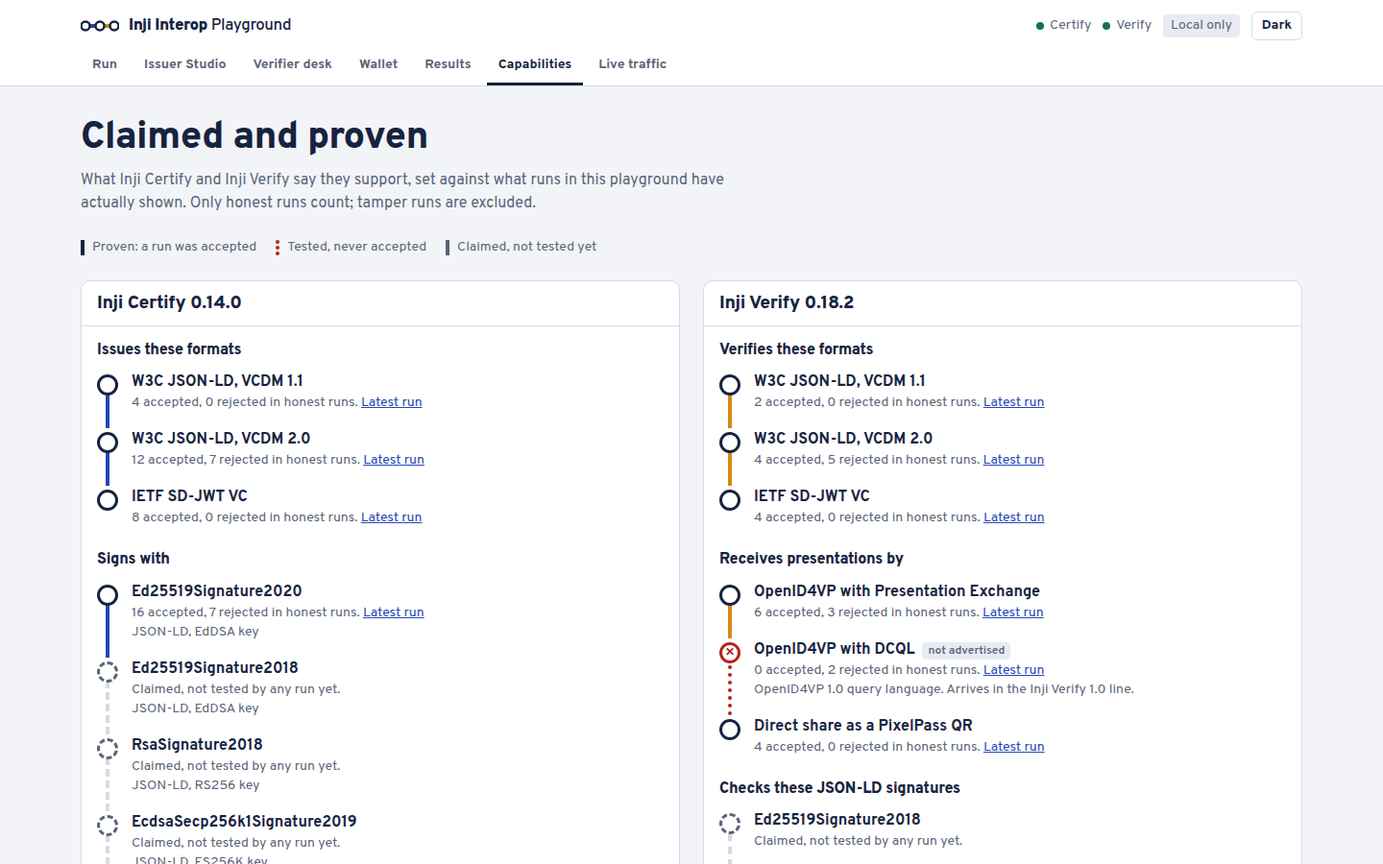
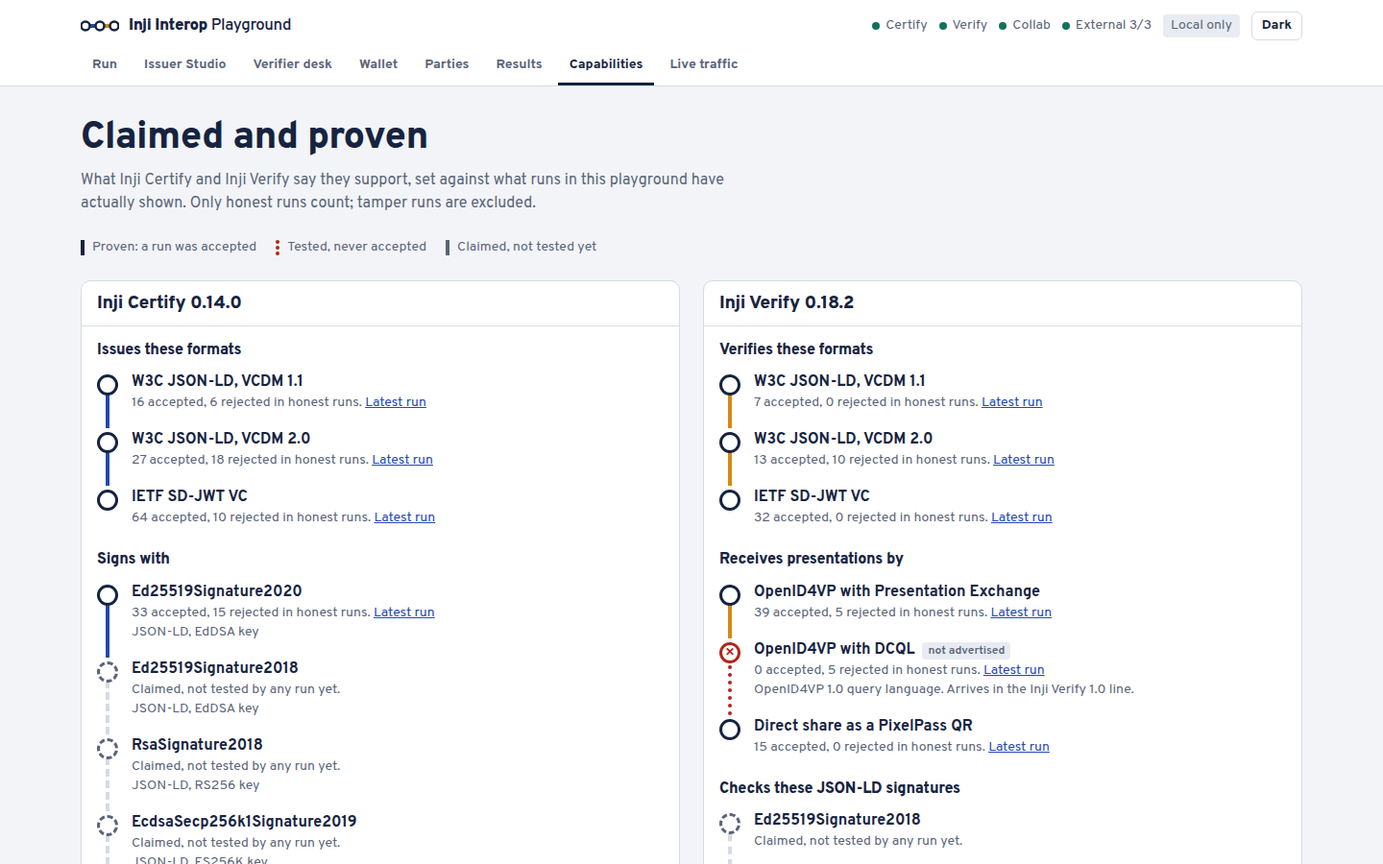
Rerun the matrix with Collab: 71 journeys

diff --git a/docs/interop-report.md b/docs/interop-report.md
@@ -1,60 +1,83 @@
 # Interop report
 
-Generated 2026-10-12T17:34:44.560Z by `apps/bff/scripts/matrix.ts` against http://127.0.0.1:8080.
-Stack: Inji Certify 0.14.0, Inji Verify 0.18.2, the playground's Reference Wallet and Reference Verifier, and the external parties in infra/parties.yaml (walt.id issuer-api, verifier-api and wallet-api 1.0.0).
+Generated 2026-10-23T14:42:47.267Z by `apps/bff/scripts/matrix.ts` against http://127.0.0.1:8080.
+Stack: Inji Certify 0.14.0, Inji Verify 0.18.2, the playground's Reference Wallet and Reference Verifier, the external parties in infra/parties.yaml (walt.id issuer-api, verifier-api and wallet-api 1.0.0), and MOSIP Collab (Inji 1.0.0-alpha.1: its Certify issuers, eSignet and Inji Verify 1.0, reached over the internet).
 
 **Verdict** means *the journey behaved as expected*: honest presentations are accepted; tampered or expired ones are rejected.
 Rows marked with a gap id are known upstream problems described in [gaps.md](gaps.md).
 
 | # | Credential | Issuer | Format | Wallet | Verifier | Query | Mode | Tamper | Expected | Verifier outcome | Status / error | Verdict | Run |
 |---|---|---|---|---|---|---|---|---|---|---|---|---|---|
-| M1 | Karnataka Farmer Card | Karnataka Agriculture Department | ldp_vc (DM 2.0) | Reference Wallet | Inji Verify 0.18.2 | PE | OpenID4VP | none | accept | ACCEPTED | SUCCESS | ✅ | `run-q326qa` |
-| M2 | Bachelor's Degree | University of Veridonia | ldp_vc (DM 1.1) | Reference Wallet | Inji Verify 0.18.2 | PE | OpenID4VP | none | accept | ACCEPTED | SUCCESS | ✅ | `run-eswnqq` |
-| M3 | Karnataka Farmer Card (SD-JWT) | Karnataka Agriculture Department | vc+sd-jwt | Reference Wallet | Inji Verify 0.18.2 | PE | OpenID4VP | none | accept | ACCEPTED | SUCCESS | ✅ | `run-7e7nnw` |
-| M4 | Karnataka Farmer Card | Karnataka Agriculture Department | ldp_vc (DM 2.0) | Reference Wallet | Inji Verify 0.18.2 | — | direct share | none | accept | ACCEPTED | SUCCESS | ✅ | `run-qjrazq` |
-| M5 | Karnataka Farmer Card (SD-JWT) | Karnataka Agriculture Department | vc+sd-jwt | Reference Wallet | Inji Verify 0.18.2 | — | direct share | none | accept | ACCEPTED | SUCCESS | ✅ | `run-zsmxlg` |
-| M6 | Karnataka Farmer Card | Karnataka Agriculture Department | ldp_vc (DM 2.0) | Reference Wallet | Reference Verifier | PE | OpenID4VP | none | accept | ACCEPTED | SUCCESS | ✅ | `run-yvjccw` |
-| M7 | Karnataka Farmer Card | Karnataka Agriculture Department | ldp_vc (DM 2.0) | Reference Wallet | Reference Verifier | DCQL | OpenID4VP | none | accept | ACCEPTED | SUCCESS | ✅ | `run-osjgoq` |
-| M8 | Karnataka Farmer Card (SD-JWT) | Karnataka Agriculture Department | vc+sd-jwt | Reference Wallet | Reference Verifier | PE | OpenID4VP | none | accept | ACCEPTED | SUCCESS | ✅ | `run-lvskyq` |
-| M9 | Karnataka Farmer Card (SD-JWT) | Karnataka Agriculture Department | vc+sd-jwt | Reference Wallet | Reference Verifier | DCQL | OpenID4VP | none | accept | ACCEPTED | SUCCESS | ✅ | `run-qio4wg` |
-| M10 | Bachelor's Degree | University of Veridonia | ldp_vc (DM 1.1) | Reference Wallet | Reference Verifier | PE | OpenID4VP | none | accept | ACCEPTED | SUCCESS | ✅ | `run-nbtxpw` |
-| M11 | Karnataka Farmer Card | Karnataka Agriculture Department | ldp_vc (DM 2.0) | Reference Wallet | Inji Verify 0.18.2 | DCQL | OpenID4VP | none | reject | REJECTED | QUERY_LANGUAGE_UNSUPPORTED | ✅ | `run-qnzb6q` |
-| M12 | Library Pass (expired) | University of Veridonia | ldp_vc (DM 2.0) | Reference Wallet | Inji Verify 0.18.2 | PE | OpenID4VP | none | reject | REJECTED | EXPIRED | ✅ | `run-uwsqaa` |
-| M13 | Library Pass (expired) | University of Veridonia | ldp_vc (DM 2.0) | Reference Wallet | Reference Verifier | PE | OpenID4VP | none | reject | REJECTED | Not expired | ✅ | `run-vpwm9q` |
-| T1 | Karnataka Farmer Card | Karnataka Agriculture Department | ldp_vc (DM 2.0) | Reference Wallet | Inji Verify 0.18.2 | PE | OpenID4VP | alter-claim | reject | REJECTED | ERR_SIGNATURE_VERIFICATION_FAILED | ✅ | `run-95sata` |
-| T2 | Karnataka Farmer Card (SD-JWT) | Karnataka Agriculture Department | vc+sd-jwt | Reference Wallet | Inji Verify 0.18.2 | PE | OpenID4VP | alter-claim | reject | REJECTED | ERR_INVALID_DISCLOSURE | ✅ | `run-exl9dg` |
-| T3 | Karnataka Farmer Card | Karnataka Agriculture Department | ldp_vc (DM 2.0) | Reference Wallet | Reference Verifier | PE | OpenID4VP | alter-claim | reject | REJECTED | Issuer signature valid | ✅ | `run-pdyeoq` |
-| T4 | Karnataka Farmer Card (SD-JWT) | Karnataka Agriculture Department | vc+sd-jwt | Reference Wallet | Reference Verifier | PE | OpenID4VP | alter-claim | reject | REJECTED | Disclosures match issuer digests | ✅ | `run-5ucrng` |
-| T5 | Karnataka Farmer Card | Karnataka Agriculture Department | ldp_vc (DM 2.0) | Reference Wallet | Inji Verify 0.18.2 | PE | OpenID4VP | wrong-nonce | reject | REJECTED | invalid_request | ✅ | `run-4nnwhw` |
-| T6 | Karnataka Farmer Card (SD-JWT) | Karnataka Agriculture Department | vc+sd-jwt | Reference Wallet | Inji Verify 0.18.2 | PE | OpenID4VP | wrong-nonce | reject | ACCEPTED | SUCCESS | ❌ G19 | `run-55ftxg` |
-| T7 | Karnataka Farmer Card | Karnataka Agriculture Department | ldp_vc (DM 2.0) | Reference Wallet | Reference Verifier | PE | OpenID4VP | wrong-nonce | reject | REJECTED | Nonce matches | ✅ | `run-exwhvg` |
-| T8 | Karnataka Farmer Card (SD-JWT) | Karnataka Agriculture Department | vc+sd-jwt | Reference Wallet | Reference Verifier | PE | OpenID4VP | wrong-nonce | reject | REJECTED | Nonce matches | ✅ | `run-gvsckq` |
-| T9 | Karnataka Farmer Card | Karnataka Agriculture Department | ldp_vc (DM 2.0) | Reference Wallet | Inji Verify 0.18.2 | PE | OpenID4VP | no-holder-proof | reject | REJECTED | invalid_request | ✅ | `run-nmzwrw` |
-| T10 | Karnataka Farmer Card (SD-JWT) | Karnataka Agriculture Department | vc+sd-jwt | Reference Wallet | Inji Verify 0.18.2 | PE | OpenID4VP | no-holder-proof | reject | ACCEPTED | SUCCESS | ❌ G20 | `run-2ax42w` |
-| T11 | Karnataka Farmer Card | Karnataka Agriculture Department | ldp_vc (DM 2.0) | Reference Wallet | Reference Verifier | PE | OpenID4VP | no-holder-proof | reject | REJECTED | Holder proof present | ✅ | `run-rtiy8q` |
-| T12 | Karnataka Farmer Card (SD-JWT) | Karnataka Agriculture Department | vc+sd-jwt | Reference Wallet | Reference Verifier | PE | OpenID4VP | no-holder-proof | reject | REJECTED | Key-binding JWT present | ✅ | `run-iunebq` |
-| T13 | Karnataka Farmer Card | Karnataka Agriculture Department | ldp_vc (DM 2.0) | Reference Wallet | Inji Verify 0.18.2 | PE | OpenID4VP | foreign-holder | reject | REJECTED | ERR_HOLDER_BINDING_CHECK_FAILED | ✅ | `run-5vezmw` |
-| T14 | Karnataka Farmer Card (SD-JWT) | Karnataka Agriculture Department | vc+sd-jwt | Reference Wallet | Inji Verify 0.18.2 | PE | OpenID4VP | foreign-holder | reject | REJECTED | ERR_INVALID_KB_SIGNATURE | ✅ | `run-3rsnra` |
-| T15 | Karnataka Farmer Card | Karnataka Agriculture Department | ldp_vc (DM 2.0) | Reference Wallet | Reference Verifier | PE | OpenID4VP | foreign-holder | reject | REJECTED | Bound to the presenter | ✅ | `run-dvdowg` |
-| T16 | Karnataka Farmer Card (SD-JWT) | Karnataka Agriculture Department | vc+sd-jwt | Reference Wallet | Reference Verifier | PE | OpenID4VP | foreign-holder | reject | REJECTED | Holder signature valid | ✅ | `run-q51zbg` |
-| T17 | Karnataka Farmer Card (SD-JWT) | Karnataka Agriculture Department | vc+sd-jwt | Reference Wallet | Inji Verify 0.18.2 | PE | OpenID4VP | self-signed-sdjwt | reject | ACCEPTED | SUCCESS | ❌ G11 | `run-vxrs9a` |
-| T18 | Karnataka Farmer Card (SD-JWT) | Karnataka Agriculture Department | vc+sd-jwt | Reference Wallet | Reference Verifier | PE | OpenID4VP | self-signed-sdjwt | reject | REJECTED | Issuer is trusted | ✅ | `run-x2hzkw` |
-| X1 | City Library Card | walt.id demo issuer | vc+sd-jwt | Reference Wallet | Inji Verify 0.18.2 | PE | OpenID4VP | none | accept | ACCEPTED | SUCCESS | ✅ | `run-7knn8a` |
-| X2 | City Library Card | walt.id demo issuer | vc+sd-jwt | Reference Wallet | Inji Verify 0.18.2 | — | direct share | none | accept | ACCEPTED | SUCCESS | ✅ | `run-uhmyow` |
-| X3 | Open University Degree | walt.id demo issuer | vc+sd-jwt | Reference Wallet | Inji Verify 0.18.2 | PE | OpenID4VP | none | accept | ACCEPTED | SUCCESS | ✅ | `run-g33wja` |
-| X4 | City Library Card | walt.id demo issuer | vc+sd-jwt | Reference Wallet | Reference Verifier | PE | OpenID4VP | none | accept | ACCEPTED | SUCCESS | ✅ | `run-74byca` |
-| X5 | City Library Card | walt.id demo issuer | vc+sd-jwt | Reference Wallet | Reference Verifier | DCQL | OpenID4VP | none | accept | ACCEPTED | SUCCESS | ✅ | `run-qdxjnw` |
-| X6 | City Library Card | walt.id demo issuer | vc+sd-jwt | Reference Wallet | walt.id Verifier | own | OpenID4VP | none | accept | ACCEPTED | SUCCESS | ✅ | `run-qi7ttg` |
-| X7 | City Library Card | walt.id demo issuer | vc+sd-jwt | walt.id Wallet (API) | Inji Verify 0.18.2 | PE | OpenID4VP | none | accept | ACCEPTED | SUCCESS | ✅ | `run-9jbo7q` |
-| X8 | City Library Card | walt.id demo issuer | vc+sd-jwt | walt.id Wallet (API) | walt.id Verifier | own | OpenID4VP | none | accept | ACCEPTED | SUCCESS | ✅ | `run-zzlp7q` |
-| X9 | City Library Card | walt.id demo issuer | vc+sd-jwt | walt.id Wallet (API) | Reference Verifier | PE | OpenID4VP | none | accept | REJECTED | Every requested credential answered | ❌ G33 | `run-mp2kga` |
-| X10 | Karnataka Farmer Card (SD-JWT) | Karnataka Agriculture Department | vc+sd-jwt | Reference Wallet | walt.id Verifier | own | OpenID4VP | none | accept | REJECTED | REJECTED_BY_VERIFIER | ❌ G32 | `run-gx8xhg` |
-| X11 | Karnataka Farmer Card | Karnataka Agriculture Department | ldp_vc (DM 2.0) | walt.id Wallet (API) | Inji Verify 0.18.2 | PE | OpenID4VP | none | accept | NOT_REACHED | step_failed | ❌ G30 | `run-khcfaw` |
-| X12 | Karnataka Farmer Card (SD-JWT) | Karnataka Agriculture Department | vc+sd-jwt | walt.id Wallet (API) | Inji Verify 0.18.2 | PE | OpenID4VP | none | accept | NOT_REACHED | step_failed | ❌ G30 | `run-vvhj9q` |
-| X13 | City Library Card | walt.id demo issuer | vc+sd-jwt | Reference Wallet | Inji Verify 0.18.2 | PE | OpenID4VP | alter-claim | reject | REJECTED | ERR_INVALID_DISCLOSURE | ✅ | `run-russ8w` |
-| X14 | City Library Card | walt.id demo issuer | vc+sd-jwt | Reference Wallet | Inji Verify 0.18.2 | PE | OpenID4VP | self-signed-sdjwt | reject | ACCEPTED | SUCCESS | ❌ G11 | `run-dvkx1q` |
-| X15 | City Library Card | walt.id demo issuer | vc+sd-jwt | Reference Wallet | Reference Verifier | PE | OpenID4VP | self-signed-sdjwt | reject | REJECTED | Issuer is trusted | ✅ | `run-lenzlw` |
-| X16 | City Library Card | walt.id demo issuer | vc+sd-jwt | Reference Wallet | walt.id Verifier | own | OpenID4VP | wrong-nonce | reject | REJECTED | REJECTED_BY_VERIFIER | ✅ | `run-eho7ta` |
-| X17 | City Library Card | walt.id demo issuer | vc+sd-jwt | Reference Wallet | walt.id Verifier | own | OpenID4VP | alter-claim | reject | REJECTED | REJECTED_BY_VERIFIER | ✅ | `run-hpiyza` |
+| M1 | Karnataka Farmer Card | Karnataka Agriculture Department | ldp_vc (DM 2.0) | Reference Wallet | Inji Verify 0.18.2 | PE | OpenID4VP, signed request_uri | none | accept | ACCEPTED | SUCCESS | ✅ | `run-fwgl4a` |
+| M2 | Bachelor's Degree | University of Veridonia | ldp_vc (DM 1.1) | Reference Wallet | Inji Verify 0.18.2 | PE | OpenID4VP, signed request_uri | none | accept | ACCEPTED | SUCCESS | ✅ | `run-0teyja` |
+| M3 | Karnataka Farmer Card (SD-JWT) | Karnataka Agriculture Department | vc+sd-jwt | Reference Wallet | Inji Verify 0.18.2 | PE | OpenID4VP, signed request_uri | none | accept | ACCEPTED | SUCCESS | ✅ | `run-2lg3lg` |
+| M4 | Karnataka Farmer Card | Karnataka Agriculture Department | ldp_vc (DM 2.0) | Reference Wallet | Inji Verify 0.18.2 | — | direct share | none | accept | ACCEPTED | SUCCESS | ✅ | `run-bqytvw` |
+| M5 | Karnataka Farmer Card (SD-JWT) | Karnataka Agriculture Department | vc+sd-jwt | Reference Wallet | Inji Verify 0.18.2 | — | direct share | none | accept | ACCEPTED | SUCCESS | ✅ | `run-3c0jkg` |
+| M6 | Karnataka Farmer Card | Karnataka Agriculture Department | ldp_vc (DM 2.0) | Reference Wallet | Reference Verifier | PE | OpenID4VP | none | accept | ACCEPTED | SUCCESS | ✅ | `run-zxqtfg` |
+| M7 | Karnataka Farmer Card | Karnataka Agriculture Department | ldp_vc (DM 2.0) | Reference Wallet | Reference Verifier | DCQL | OpenID4VP | none | accept | ACCEPTED | SUCCESS | ✅ | `run-jpksfw` |
+| M8 | Karnataka Farmer Card (SD-JWT) | Karnataka Agriculture Department | vc+sd-jwt | Reference Wallet | Reference Verifier | PE | OpenID4VP | none | accept | ACCEPTED | SUCCESS | ✅ | `run-l8frxa` |
+| M9 | Karnataka Farmer Card (SD-JWT) | Karnataka Agriculture Department | vc+sd-jwt | Reference Wallet | Reference Verifier | DCQL | OpenID4VP | none | accept | ACCEPTED | SUCCESS | ✅ | `run-tmpk0w` |
+| M10 | Bachelor's Degree | University of Veridonia | ldp_vc (DM 1.1) | Reference Wallet | Reference Verifier | PE | OpenID4VP | none | accept | ACCEPTED | SUCCESS | ✅ | `run-swbqmw` |
+| M11 | Karnataka Farmer Card | Karnataka Agriculture Department | ldp_vc (DM 2.0) | Reference Wallet | Inji Verify 0.18.2 | DCQL | OpenID4VP | none | reject | REJECTED | QUERY_LANGUAGE_UNSUPPORTED | ✅ | `run-xkcvda` |
+| M12 | Library Pass (expired) | University of Veridonia | ldp_vc (DM 2.0) | Reference Wallet | Inji Verify 0.18.2 | PE | OpenID4VP, signed request_uri | none | reject | REJECTED | EXPIRED | ✅ | `run-xi1crg` |
+| M13 | Library Pass (expired) | University of Veridonia | ldp_vc (DM 2.0) | Reference Wallet | Reference Verifier | PE | OpenID4VP | none | reject | REJECTED | Not expired | ✅ | `run-dissvq` |
+| M14 | Karnataka Farmer Card | Karnataka Agriculture Department | ldp_vc (DM 2.0) | Reference Wallet | Inji Verify 0.18.2 | PE | OpenID4VP, by value | none | accept | ACCEPTED | SUCCESS | ✅ | `run-pssdlq` |
+| M15 | Karnataka Farmer Card (SD-JWT) | Karnataka Agriculture Department | vc+sd-jwt | Reference Wallet | Inji Verify 0.18.2 | PE | OpenID4VP, by value | none | accept | ACCEPTED | SUCCESS | ✅ | `run-qat60w` |
+| T1 | Karnataka Farmer Card | Karnataka Agriculture Department | ldp_vc (DM 2.0) | Reference Wallet | Inji Verify 0.18.2 | PE | OpenID4VP, signed request_uri | alter-claim | reject | REJECTED | ERR_SIGNATURE_VERIFICATION_FAILED | ✅ | `run-bmbuoa` |
+| T2 | Karnataka Farmer Card (SD-JWT) | Karnataka Agriculture Department | vc+sd-jwt | Reference Wallet | Inji Verify 0.18.2 | PE | OpenID4VP, signed request_uri | alter-claim | reject | REJECTED | ERR_INVALID_DISCLOSURE | ✅ | `run-hvvh7q` |
+| T3 | Karnataka Farmer Card | Karnataka Agriculture Department | ldp_vc (DM 2.0) | Reference Wallet | Reference Verifier | PE | OpenID4VP | alter-claim | reject | REJECTED | Issuer signature valid | ✅ | `run-cmbzlw` |
+| T4 | Karnataka Farmer Card (SD-JWT) | Karnataka Agriculture Department | vc+sd-jwt | Reference Wallet | Reference Verifier | PE | OpenID4VP | alter-claim | reject | REJECTED | Disclosures match issuer digests | ✅ | `run-2srniw` |
+| T5 | Karnataka Farmer Card | Karnataka Agriculture Department | ldp_vc (DM 2.0) | Reference Wallet | Inji Verify 0.18.2 | PE | OpenID4VP, signed request_uri | wrong-nonce | reject | REJECTED | invalid_request | ✅ | `run-kf3k1a` |
+| T6 | Karnataka Farmer Card (SD-JWT) | Karnataka Agriculture Department | vc+sd-jwt | Reference Wallet | Inji Verify 0.18.2 | PE | OpenID4VP, signed request_uri | wrong-nonce | reject | ACCEPTED | SUCCESS | ❌ G19 | `run-emrxwa` |
+| T7 | Karnataka Farmer Card | Karnataka Agriculture Department | ldp_vc (DM 2.0) | Reference Wallet | Reference Verifier | PE | OpenID4VP | wrong-nonce | reject | REJECTED | Nonce matches | ✅ | `run-xgnexa` |
+| T8 | Karnataka Farmer Card (SD-JWT) | Karnataka Agriculture Department | vc+sd-jwt | Reference Wallet | Reference Verifier | PE | OpenID4VP | wrong-nonce | reject | REJECTED | Nonce matches | ✅ | `run-jfsfsa` |
+| T9 | Karnataka Farmer Card | Karnataka Agriculture Department | ldp_vc (DM 2.0) | Reference Wallet | Inji Verify 0.18.2 | PE | OpenID4VP, signed request_uri | no-holder-proof | reject | REJECTED | invalid_request | ✅ | `run-wf67ea` |
+| T10 | Karnataka Farmer Card (SD-JWT) | Karnataka Agriculture Department | vc+sd-jwt | Reference Wallet | Inji Verify 0.18.2 | PE | OpenID4VP, signed request_uri | no-holder-proof | reject | ACCEPTED | SUCCESS | ❌ G20 | `run-3xw1ia` |
+| T11 | Karnataka Farmer Card | Karnataka Agriculture Department | ldp_vc (DM 2.0) | Reference Wallet | Reference Verifier | PE | OpenID4VP | no-holder-proof | reject | REJECTED | Holder proof present | ✅ | `run-wfymda` |
+| T12 | Karnataka Farmer Card (SD-JWT) | Karnataka Agriculture Department | vc+sd-jwt | Reference Wallet | Reference Verifier | PE | OpenID4VP | no-holder-proof | reject | REJECTED | Key-binding JWT present | ✅ | `run-a2tmqq` |
+| T13 | Karnataka Farmer Card | Karnataka Agriculture Department | ldp_vc (DM 2.0) | Reference Wallet | Inji Verify 0.18.2 | PE | OpenID4VP, signed request_uri | foreign-holder | reject | REJECTED | ERR_HOLDER_BINDING_CHECK_FAILED | ✅ | `run-oqqcaa` |
+| T14 | Karnataka Farmer Card (SD-JWT) | Karnataka Agriculture Department | vc+sd-jwt | Reference Wallet | Inji Verify 0.18.2 | PE | OpenID4VP, signed request_uri | foreign-holder | reject | REJECTED | ERR_INVALID_KB_SIGNATURE | ✅ | `run-i2xxjg` |
+| T15 | Karnataka Farmer Card | Karnataka Agriculture Department | ldp_vc (DM 2.0) | Reference Wallet | Reference Verifier | PE | OpenID4VP | foreign-holder | reject | REJECTED | Bound to the presenter | ✅ | `run-kf4n2q` |
+| T16 | Karnataka Farmer Card (SD-JWT) | Karnataka Agriculture Department | vc+sd-jwt | Reference Wallet | Reference Verifier | PE | OpenID4VP | foreign-holder | reject | REJECTED | Holder signature valid | ✅ | `run-hfzkkw` |
+| T17 | Karnataka Farmer Card (SD-JWT) | Karnataka Agriculture Department | vc+sd-jwt | Reference Wallet | Inji Verify 0.18.2 | PE | OpenID4VP, signed request_uri | self-signed-sdjwt | reject | ACCEPTED | SUCCESS | ❌ G11 | `run-ms65xw` |
+| T18 | Karnataka Farmer Card (SD-JWT) | Karnataka Agriculture Department | vc+sd-jwt | Reference Wallet | Reference Verifier | PE | OpenID4VP | self-signed-sdjwt | reject | REJECTED | Issuer is trusted | ✅ | `run-vlxw1a` |
+| X1 | City Library Card | walt.id demo issuer | vc+sd-jwt | Reference Wallet | Inji Verify 0.18.2 | PE | OpenID4VP, signed request_uri | none | accept | ACCEPTED | SUCCESS | ✅ | `run-0yr8ma` |
+| X2 | City Library Card | walt.id demo issuer | vc+sd-jwt | Reference Wallet | Inji Verify 0.18.2 | — | direct share | none | accept | ACCEPTED | SUCCESS | ✅ | `run-6dmn4w` |
+| X3 | Open University Degree | walt.id demo issuer | vc+sd-jwt | Reference Wallet | Inji Verify 0.18.2 | PE | OpenID4VP, signed request_uri | none | accept | ACCEPTED | SUCCESS | ✅ | `run-cblsba` |
+| X4 | City Library Card | walt.id demo issuer | vc+sd-jwt | Reference Wallet | Reference Verifier | PE | OpenID4VP | none | accept | ACCEPTED | SUCCESS | ✅ | `run-yutnya` |
+| X5 | City Library Card | walt.id demo issuer | vc+sd-jwt | Reference Wallet | Reference Verifier | DCQL | OpenID4VP | none | accept | ACCEPTED | SUCCESS | ✅ | `run-thj6kg` |
+| X6 | City Library Card | walt.id demo issuer | vc+sd-jwt | Reference Wallet | walt.id Verifier | own | OpenID4VP | none | accept | ACCEPTED | SUCCESS | ✅ | `run-zbcgfg` |
+| X7 | City Library Card | walt.id demo issuer | vc+sd-jwt | walt.id Wallet (API) | Inji Verify 0.18.2 | PE | OpenID4VP, by value | none | accept | ACCEPTED | SUCCESS | ✅ | `run-ooozua` |
+| X8 | City Library Card | walt.id demo issuer | vc+sd-jwt | walt.id Wallet (API) | walt.id Verifier | own | OpenID4VP | none | accept | ACCEPTED | SUCCESS | ✅ | `run-1xjkbg` |
+| X9 | City Library Card | walt.id demo issuer | vc+sd-jwt | walt.id Wallet (API) | Reference Verifier | PE | OpenID4VP | none | accept | REJECTED | Every requested credential answered | ❌ G33 | `run-bxgcuq` |
+| X10 | Karnataka Farmer Card (SD-JWT) | Karnataka Agriculture Department | vc+sd-jwt | Reference Wallet | walt.id Verifier | own | OpenID4VP | none | accept | REJECTED | REJECTED_BY_VERIFIER | ❌ G32 | `run-fvsqjg` |
+| X11 | Karnataka Farmer Card | Karnataka Agriculture Department | ldp_vc (DM 2.0) | walt.id Wallet (API) | Inji Verify 0.18.2 | PE | OpenID4VP, signed request_uri | none | accept | NOT_REACHED | step_failed | ❌ G30 | `run-34w3za` |
+| X12 | Karnataka Farmer Card (SD-JWT) | Karnataka Agriculture Department | vc+sd-jwt | walt.id Wallet (API) | Inji Verify 0.18.2 | PE | OpenID4VP, signed request_uri | none | accept | NOT_REACHED | step_failed | ❌ G30 | `run-vgdatq` |
+| X13 | City Library Card | walt.id demo issuer | vc+sd-jwt | Reference Wallet | Inji Verify 0.18.2 | PE | OpenID4VP, signed request_uri | alter-claim | reject | REJECTED | ERR_INVALID_DISCLOSURE | ✅ | `run-eilxtg` |
+| X14 | City Library Card | walt.id demo issuer | vc+sd-jwt | Reference Wallet | Inji Verify 0.18.2 | PE | OpenID4VP, signed request_uri | self-signed-sdjwt | reject | ACCEPTED | SUCCESS | ❌ G11 | `run-iwjk6g` |
+| X15 | City Library Card | walt.id demo issuer | vc+sd-jwt | Reference Wallet | Reference Verifier | PE | OpenID4VP | self-signed-sdjwt | reject | REJECTED | Issuer is trusted | ✅ | `run-gdugpq` |
+| X16 | City Library Card | walt.id demo issuer | vc+sd-jwt | Reference Wallet | walt.id Verifier | own | OpenID4VP | wrong-nonce | reject | REJECTED | REJECTED_BY_VERIFIER | ✅ | `run-bana4q` |
+| X17 | City Library Card | walt.id demo issuer | vc+sd-jwt | Reference Wallet | walt.id Verifier | own | OpenID4VP | alter-claim | reject | REJECTED | REJECTED_BY_VERIFIER | ✅ | `run-3mwcug` |
+| X18 | City Library Card | walt.id demo issuer | vc+sd-jwt | walt.id Wallet (API) | Inji Verify 0.18.2 | PE | OpenID4VP, signed request_uri | none | accept | NOT_REACHED | step_failed | ❌ G35 | `run-d7pqfq` |
+| C1 | Mock Verifiable Credential (SD-JWT) | Collab mock issuer (MOSIP Collab) | dc+sd-jwt | Reference Wallet | Inji Verify 1.0 (MOSIP Collab) | DCQL | OpenID4VP | none | accept | ACCEPTED | SUCCESS | ✅ | `run-6bm8lg` |
+| C2 | Mock Verifiable Credential (VCDM 1.1) | Collab mock issuer (MOSIP Collab) | ldp_vc (DM 1.1) | Reference Wallet | Inji Verify 1.0 (MOSIP Collab) | DCQL | OpenID4VP | none | accept | ACCEPTED | SUCCESS | ✅ | `run-mt7brq` |
+| C3 | Mock Verifiable Credential (VCDM 1.1) | Collab mock issuer (MOSIP Collab) | ldp_vc (DM 1.1) | Reference Wallet | Inji Verify 1.0 (MOSIP Collab) | DCQL | OpenID4VP | none | accept | REJECTED | invalid_request | ❌ G36 | `run-s9ldtg` |
+| C4 | Mock Verifiable Credential (VCDM 1.1) | Collab mock issuer (MOSIP Collab) | ldp_vc (DM 1.1) | Reference Wallet | Inji Verify 1.0 (MOSIP Collab) | DCQL (Inji paths) | OpenID4VP | none | accept | ACCEPTED | SUCCESS | ✅ | `run-i8qnqg` |
+| C5 | Mock Verifiable Credential (VCDM 2.0) | Collab mock issuer (MOSIP Collab) | ldp_vc (DM 2.0) | Reference Wallet | Inji Verify 1.0 (MOSIP Collab) | DCQL | OpenID4VP | none | accept | ACCEPTED | SUCCESS | ✅ | `run-gbqn0q` |
+| C6 | Farmer ID Card (VCDM 2.0) | Farmer ID Card (MOSIP Collab) | ldp_vc (DM 2.0) | Reference Wallet | Inji Verify 1.0 (MOSIP Collab) | DCQL | OpenID4VP | none | accept | ACCEPTED | SUCCESS | ✅ | `run-fmpala` |
+| C7 | STATEMENT OF THE STATUS OF INFORMATION DECLARED IN CAR (VC DM2.0) (VCDM 2.0) | AgroVeritas Property & Land Registry (MOSIP Collab) | ldp_vc (DM 2.0) | Reference Wallet | Inji Verify 1.0 (MOSIP Collab) | DCQL | OpenID4VP | none | accept | REJECTED | VP_VERIFICATION_FAILED | ❌ G41 | `run-ujycjw` |
+| C8 | Mock Verifiable Credential (SD-JWT) | Collab mock issuer (MOSIP Collab) | dc+sd-jwt | Reference Wallet | Inji Verify 1.0 (MOSIP Collab) | — | direct share | none | accept | ACCEPTED | SUCCESS | ✅ | `run-y6cyyw` |
+| C9 | Mock Verifiable Credential (VCDM 1.1) | Collab mock issuer (MOSIP Collab) | ldp_vc (DM 1.1) | Reference Wallet | Inji Verify 1.0 (MOSIP Collab) | PE | OpenID4VP | none | reject | REJECTED | QUERY_LANGUAGE_UNSUPPORTED | ✅ | `run-3duhlq` |
+| C10 | Mock Verifiable Credential (VCDM 1.1) | Collab mock issuer (MOSIP Collab) | ldp_vc (DM 1.1) | Reference Wallet | Inji Verify 0.18.2 | PE | OpenID4VP, signed request_uri | none | accept | ACCEPTED | SUCCESS | ✅ | `run-u1sfnw` |
+| C11 | Mock Verifiable Credential (SD-JWT) | Collab mock issuer (MOSIP Collab) | dc+sd-jwt | Reference Wallet | Inji Verify 0.18.2 | PE | OpenID4VP, signed request_uri | none | accept | ACCEPTED | SUCCESS | ✅ | `run-fqvxjg` |
+| C12 | Karnataka Farmer Card (SD-JWT) | Karnataka Agriculture Department | vc+sd-jwt | Reference Wallet | Inji Verify 1.0 (MOSIP Collab) | DCQL | OpenID4VP | none | accept | ACCEPTED | SUCCESS | ✅ | `run-ht3xia` |
+| C14 | Mock Verifiable Credential (SD-JWT) | Collab mock issuer (MOSIP Collab) | dc+sd-jwt | Reference Wallet | Reference Verifier | DCQL | OpenID4VP | none | accept | ACCEPTED | SUCCESS | ✅ | `run-kwxgna` |
+| C15 | Mock Verifiable Credential (VCDM 1.1) | Collab mock issuer (MOSIP Collab) | ldp_vc (DM 1.1) | Reference Wallet | Reference Verifier | DCQL | OpenID4VP | none | accept | REJECTED | Holder signature valid | ❌ G15 | `run-saxhha` |
+| C16 | Mock Verifiable Credential (SD-JWT) | Collab mock issuer (MOSIP Collab) | dc+sd-jwt | Reference Wallet | Inji Verify 1.0 (MOSIP Collab) | DCQL | OpenID4VP | wrong-nonce | reject | REJECTED | invalid_request | ✅ | `run-2dmcoq` |
+| C17 | Mock Verifiable Credential (SD-JWT) | Collab mock issuer (MOSIP Collab) | dc+sd-jwt | Reference Wallet | Inji Verify 1.0 (MOSIP Collab) | DCQL | OpenID4VP | no-holder-proof | reject | REJECTED | invalid_request | ✅ | `run-iq0pdq` |
+| C18 | Mock Verifiable Credential (SD-JWT) | Collab mock issuer (MOSIP Collab) | dc+sd-jwt | Reference Wallet | Inji Verify 1.0 (MOSIP Collab) | DCQL | OpenID4VP | self-signed-sdjwt | reject | ACCEPTED | SUCCESS | ❌ G11 | `run-ykxhjq` |
+| C19 | Mock Verifiable Credential (SD-JWT) | Collab mock issuer (MOSIP Collab) | dc+sd-jwt | Reference Wallet | Inji Verify 1.0 (MOSIP Collab) | DCQL | OpenID4VP | alter-claim | reject | REJECTED | invalid_request | ✅ | `run-wbobnw` |
+| C20 | Mock Verifiable Credential (SD-JWT) | Collab mock issuer (MOSIP Collab) | dc+sd-jwt | Reference Wallet | Inji Verify 1.0 (MOSIP Collab) | DCQL | OpenID4VP | foreign-holder | reject | REJECTED | ERR_INVALID_KB_SIGNATURE | ✅ | `run-ocypxa` |
+| C21 | Mock Verifiable Credential (VCDM 1.1) | Collab mock issuer (MOSIP Collab) | ldp_vc (DM 1.1) | Reference Wallet | Inji Verify 1.0 (MOSIP Collab) | DCQL | OpenID4VP | alter-claim | reject | REJECTED | ERR_SIGNATURE_VERIFICATION_FAILED | ✅ | `run-1jyheg` |
 
-**40/48** behaved as expected · **8** known gaps · **0** unexpected.
+**58/71** behaved as expected · **13** known gaps · **0** unexpected.
